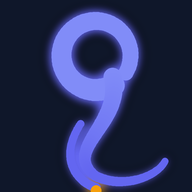
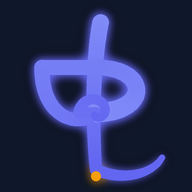
G-nøgle-form med synligt kryds i midten (stammen krydser den nederste løkke)

diff --git a/make_icon.py b/make_icon.py
@@ -1,4 +1,4 @@
-"""Kunstnerisk SLO/g-nogle ikon: glidende kurver med tyk-tynd streg, gradient og gloed."""
+"""Kunstnerisk SLO/g-nogle ikon i trebra versioner - med kryds som en aegte g-nogle."""
 from PIL import Image, ImageDraw, ImageFilter
 import math
 
@@ -18,7 +18,11 @@ def bez(p0, p1, p2, p3, t):
             mt**3 * p0[1] + 3 * mt**2 * t * p1[1] + 3 * mt * t**2 * p2[1] + t**3 * p3[1])
 
 
-def stroke_path(d, pts, radii, colors):
+def sample_bez(p0, p1, p2, p3, n):
+    return [bez(p0, p1, p2, p3, i / (n - 1)) for i in range(n)]
+
+
+def stroke(d, pts, radii, colors):
     for i, (p, r, c) in enumerate(zip(pts, radii, colors)):
         d.ellipse([p[0] - r, p[1] - r, p[0] + r, p[1] + r], fill=c + (255,))
         if i > 0:
@@ -26,75 +30,75 @@ def stroke_path(d, pts, radii, colors):
             d.line([q[0], q[1], p[0], p[1]], fill=c + (255,), width=int(2 * r))
 
 
-def sample_bez(p0, p1, p2, p3, n):
-    return [bez(p0, p1, p2, p3, i / (n - 1)) for i in range(n)]
-
-
-def circle_pts(cx, cy, rad, start_deg, end_deg, n):
+def spiral_pts(cx, cy, r0, r1, a0, a1, n):
     pts = []
     for i in range(n):
-        a = math.radians(start_deg + (end_deg - start_deg) * i / (n - 1))
-        pts.append((cx + rad * math.cos(a), cy + rad * math.sin(a)))
+        t = i / (n - 1)
+        a = math.radians(a0 + (a1 - a0) * t)
+        r = r0 + (r1 - r0) * t
+        pts.append((cx + r * math.cos(a), cy + r * math.sin(a)))
     return pts
 
 
-def build_paths(S):
-    """Returner liste af (points, start_radius, end_radius, start_color, end_color)."""
-    paths = []
-    # O: oevre loekke - naesten helt cirkel, aaben i bunden
-    pts = circle_pts(256, 148, 92, 60, 390, 60)
-    paths.append((pts, 30, 20, VIOLET, VIOLET))
-    # S: den snoede stamme fra loekken og helt i bund - som en kaldigrafisk S
-    stem = sample_bez((300, 205), (330, 330), (160, 400), (256, 470), 90)
-    paths.append((stem, 24, 13, VIOLET, INDIGO))
-    # L: elegant fod der sveiper til hoejre og loeber op i en lille krølle
-    foot = sample_bez((256, 470), (330, 505), (420, 470), (440, 430), 80)
-    paths.append((foot, 13, 9, INDIGO, INDIGO))
-    # lille nedad-bue paa venstre side af stammen (g-noglens krop)
-    body = sample_bez((215, 330), (150, 430), (215, 490), (256, 500), 60)
-    paths.append((body, 10, 12, INDIGO, INDIGO))
-    return paths
+def build_layer1():
+    """Stammen: lang, let snoet lodret linje fra top til bund (S'ets rygrad)."""
+    return sample_bez((268, 60), (246, 180), (246, 340), (256, 452), 100), 22, 16, VIOLET, INDIGO
+
+
+def build_layer2():
+    """Den store nederste loekke (O'et): spiral der krydser stammen midt paa ikonet."""
+    # ydre baue fra hoejre over toppen og ned til venstre, derefter ind i spiralen
+    outer = sample_bez((256, 300), (400, 300), (400, 180), (256, 180), 50)
+    # fra venstre side krydser vi stammen og snoer os ind i midten (her opstaar KRYDSET)
+    cross = sample_bez((112, 180), (110, 330), (230, 340), (256, 300), 50)
+    # indre spiral ind mod midten
+    inner = spiral_pts(256, 300, 46, 8, 180, 480, 40)
+    return outer + cross + inner, 26, 10, VIOLET, INDIGO
+
+
+def build_layer3():
+    """L'et: fod nederst der loeber til hoejre og krøller op."""
+    foot = sample_bez((256, 452), (330, 486), (410, 462), (432, 420), 80)
+    return foot, 16, 8, INDIGO, INDIGO
 
 
 def draw_icon(size, scale_motif=1.0, path=None):
-    SS = 4  # supersampling
+    SS = 4
     W = size * SS
-    img = Image.new('RGBA', (W, W), BG + (255,))
-
+    base = Image.new('RGBA', (W, W), BG + (255,))
     glow = Image.new('RGBA', (W, W), (0, 0, 0, 0))
     gd = ImageDraw.Draw(glow)
     art = Image.new('RGBA', (W, W), (0, 0, 0, 0))
     d = ImageDraw.Draw(art)
 
     S = W / 512.0 * scale_motif
-    offset = (1 - scale_motif) * W / 2
+    off = (1 - scale_motif) * W / 2
 
-    for pts, r0, r1, c0, c1 in build_paths(S):
+    layers = [build_layer1(), build_layer2(), build_layer3()]
+    for pts, r0, r1, c0, c1 in layers:
         n = len(pts)
-        pts = [(p[0] * S + offset, p[1] * S + offset) for p in pts]
+        pts = [(x * S + off, y * S + off) for (x, y) in pts]
         radii = [(r0 + (r1 - r0) * i / (n - 1)) * S for i in range(n)]
         colors = [lerp(c0, c1, i / (n - 1)) for i in range(n)]
-        stroke_path(d, pts, radii, colors)
-        stroke_path(gd, pts, [r * 1.5 for r in radii], [(99, 102, 241)] * n)
+        stroke(d, pts, radii, colors)
+        stroke(gd, pts, [r * 1.6 for r in radii], [(99, 102, 241)] * n)
 
-    # guld-prik under stammen
-    dot_c = (256 * S + offset, 508 * S + offset)
-    dot_r = 14 * S
+    dot_c = (256 * S + off, 470 * S + off)
+    dot_r = 13 * S
     d.ellipse([dot_c[0]-dot_r, dot_c[1]-dot_r, dot_c[0]+dot_r, dot_c[1]+dot_r], fill=GOLD + (255,))
-    gd.ellipse([dot_c[0]-dot_r*1.8, dot_c[1]-dot_r*1.8, dot_c[0]+dot_r*1.8, dot_c[1]+dot_r*1.8], fill=GOLD + (160,))
+    gd.ellipse([dot_c[0]-dot_r*2, dot_c[1]-dot_r*2, dot_c[0]+dot_r*2, dot_c[1]+dot_r*2], fill=GOLD + (150,))
 
     glow = glow.filter(ImageFilter.GaussianBlur(W // 40))
-    img = Image.alpha_composite(img, glow)
-    img = Image.alpha_composite(img, art)
-
-    img = img.resize((size, size), Image.LANCZOS)
+    out = Image.alpha_composite(base, glow)
+    out = Image.alpha_composite(out, art)
+    out = out.resize((size, size), Image.LANCZOS)
     if path:
-        img.save(path)
-    return img
+        out.save(path)
+    return out
 
 
 if __name__ == '__main__':
     draw_icon(192, path='icons/icon-192.png')
     draw_icon(512, path='icons/icon-512.png')
-    draw_icon(512, scale_motif=0.72, path='icons/icon-maskable-512.png')
+    draw_icon(512, scale_motif=0.74, path='icons/icon-maskable-512.png')
     print('ok')
